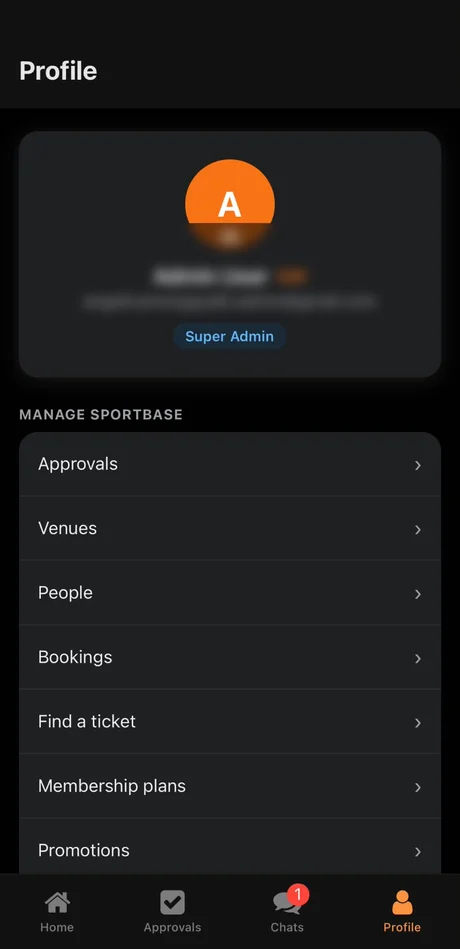
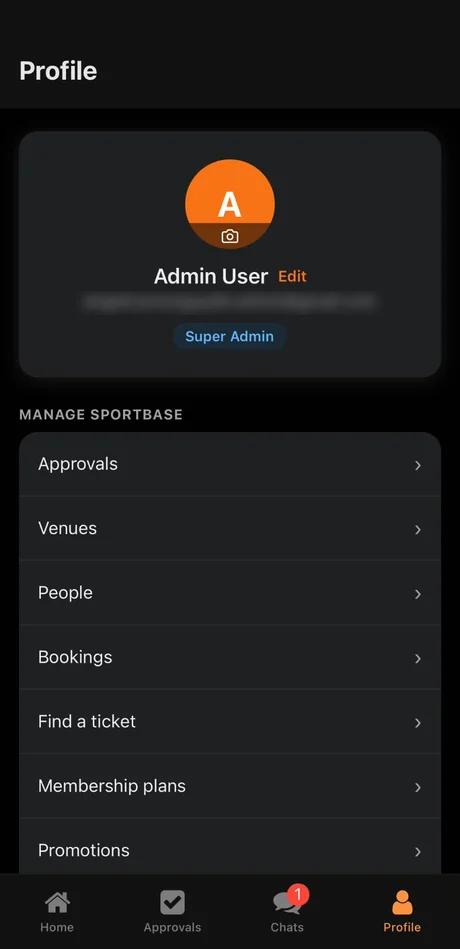
Centre the captions, give Getting in room, and stop blurring the Edit control

Changed region(s): [[0.3348, 0.2139, 0.6696, 0.3056]]

diff --git a/index.html b/index.html
@@ -597,11 +597,16 @@
      lines up with the outer edge of a black border on a dark page - which is
      not the edge anyone sees. The eye reads the lit screen as the phone, and
      that starts 7px further in. */
+  /* Centred under the phone it names. Padding the bezel's width on both
+     sides keeps the centre line on the screen rather than on the border. */
   .gallery figcaption { margin-top: 11px; font-size: 13.5px; color: var(--ink);
     line-height: 1.4; max-width: 100%; overflow-wrap: break-word;
-    padding-inline: 7px; }
+    padding-inline: 7px; text-align: center; }
 
   /* The two screens that answer "how do I get in" sit beside the answer. */
+  /* The eyebrow had nothing above it, so GETTING IN sat on the shoulders of
+     the two buttons and read as part of them. */
+  .gate { margin-top: 54px; padding-top: 34px; border-top: 1px solid var(--line); }
   .gate-list { margin-top: 22px; display: grid; grid-template-columns: repeat(3, minmax(0, 1fr)); gap: 24px; }
   .gate-list div { font-size: 15px; color: var(--muted); line-height: 1.55; }
   .gate-list b { display: block; color: var(--ink); font-weight: 600; margin-bottom: 4px; }
@@ -1566,7 +1571,7 @@
   </div>
   <div class="wrap foot-base">
     <span>&copy; 2026 SportBase &middot; Philippines</span>
-    <span>In development &middot; venues onboarding now &middot; <span class="build">build 2026-09-16 10:17 UTC</span></span>
+    <span>In development &middot; venues onboarding now &middot; <span class="build">build 2026-09-16 10:34 UTC</span></span>
   </div>
 </footer>
 
